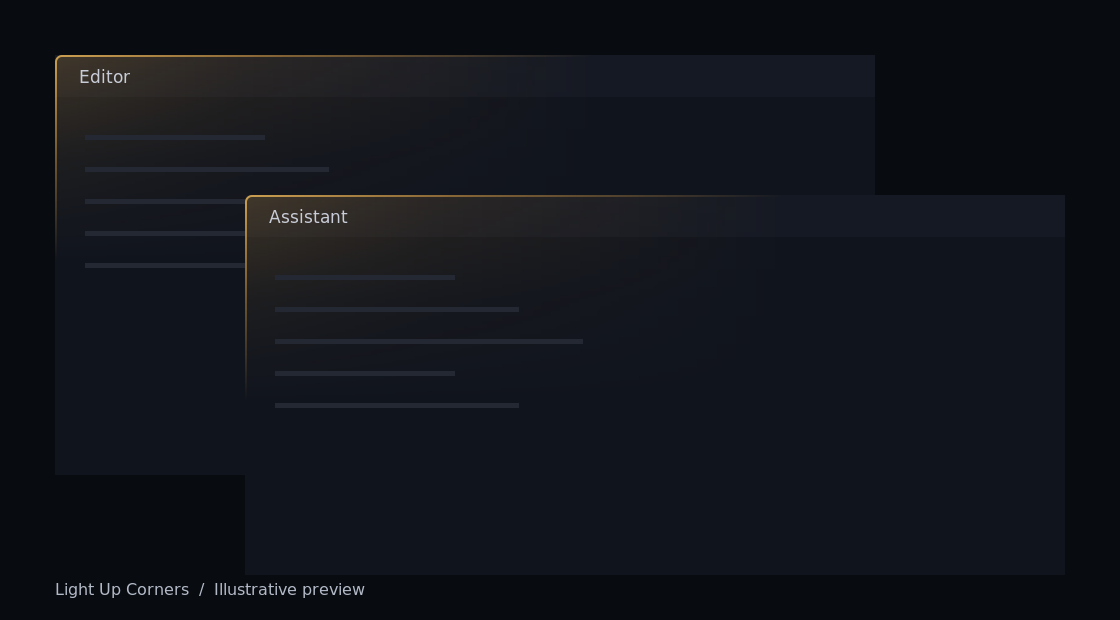
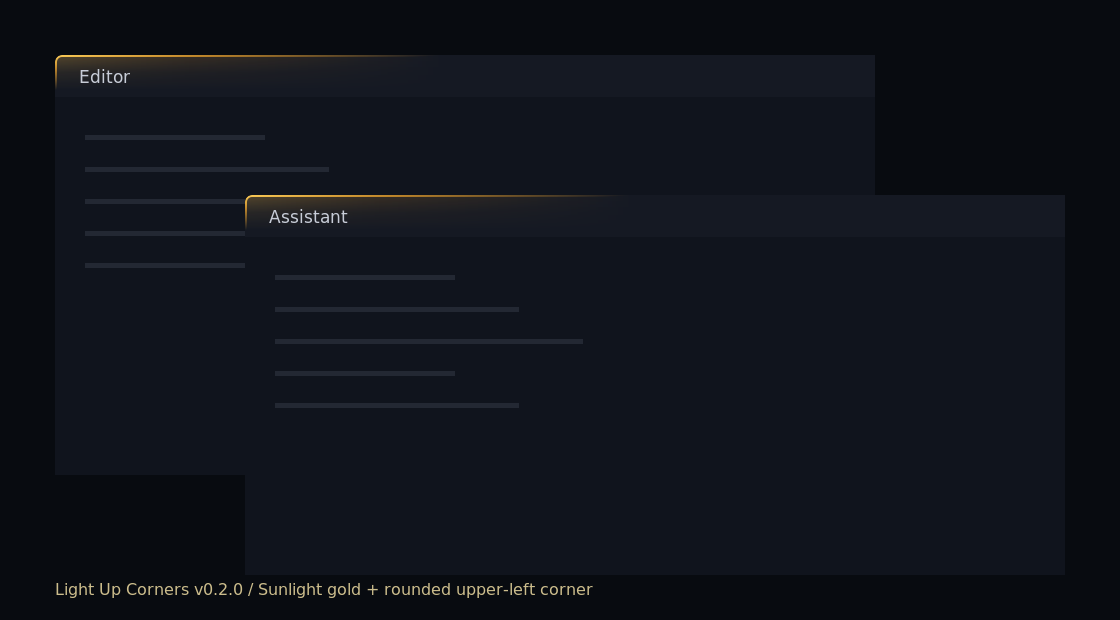
Release Light Up Corners v0.2.0
Add sunlight-gold accents and matching upper-left window rounding in one extension. Preserve monitor-relative 388 x 35 sizing, correct GNOME 42 offscreen padding and alpha blending, and clean the translucent rim. Update documentation and illustrative preview.

Validated on GNOME 42.9 / X11 with accepted desktop appearance, syntax checks, Cairo and GPU rendering, app filtering, fullscreen transitions, and cleanup checks.

diff --git a/extension.js b/extension.js
@@ -1,12 +1,65 @@
 // SPDX-License-Identifier: MIT
 'use strict';
 
-const {Clutter, Meta} = imports.gi;
+const {Clutter, Meta, GObject, Shell} = imports.gi;
 const Cairo = imports.cairo;
 const Main = imports.ui.main;
 
-// Calibrated to 540 px on the current 2560 px wide monitor.
-const HORIZONTAL_MONITOR_RATIO = 540 / 2560;
+// Calibrated to a 35 px height on a 2560 px wide monitor.
+const VERTICAL_LENGTH_RATIO = ((Math.sqrt(5) - 1) / 2) ** 5;
+const HORIZONTAL_MONITOR_RATIO = 35 / VERTICAL_LENGTH_RATIO / 2560;
+const CANVAS_SCALE = 2;
+const CORNER_RADIUS = 7;
+
+// Clip the window surface separately so the glow keeps its original antialiasing.
+const CORNER_CLIP_DECLARATIONS = 'uniform vec4 corner_geometry;';
+const CORNER_CLIP_CODE = `
+    vec2 corner_pos = cogl_tex_coord0_in.xy * corner_geometry.xy - corner_geometry.zw;
+    float radius = ${CORNER_RADIUS}.0;
+    if (corner_pos.x >= 0.0 && corner_pos.y >= 0.0 &&
+        corner_pos.x < radius && corner_pos.y < radius) {
+        float distance_to_center = length(corner_pos - vec2(radius));
+        // Keep the dark surface half a pixel inside the translucent gold rim.
+        float content_radius = radius - 0.5;
+        float coverage = 1.0 - smoothstep(content_radius - 0.5, content_radius + 0.5, distance_to_center);
+        cogl_color_out *= coverage;
+    }
+`;
+
+const WindowCornerClip = GObject.registerClass(
+class WindowCornerClip extends Shell.GLSLEffect {
+    vfunc_build_pipeline() {
+        this.add_glsl_snippet(Shell.SnippetHook.FRAGMENT,
+            CORNER_CLIP_DECLARATIONS, CORNER_CLIP_CODE, false);
+    }
+
+    updateGeometry(width, height, left, top) {
+        this._geometry = [width, height, left, top];
+        this.queue_repaint();
+    }
+
+    vfunc_paint_target(node, context) {
+        if (this._geometry) {
+            const actor = this.get_actor();
+            const volume = actor.get_paint_volume();
+            const origin = volume ? volume.get_origin() : {x: 0, y: 0};
+            const width = volume ? volume.get_width() : this._geometry[0];
+            const height = volume ? volume.get_height() : this._geometry[1];
+            // GNOME 42 enlarges the offscreen paint box by 3 logical pixels.
+            // Match clutter_actor_box_enlarge_for_effects(), including its origin.
+            const paddedWidth = Math.round(width) + 3;
+            const paddedHeight = Math.round(height) + 3;
+            const offsetX = Math.trunc(Math.ceil(origin.x + width + 0.75) - paddedWidth);
+            const offsetY = Math.trunc(Math.ceil(origin.y + height + 0.75) - paddedHeight);
+            this.set_uniform_float(this.get_uniform_location('corner_geometry'),
+                4, [paddedWidth, paddedHeight,
+                    this._geometry[2] - offsetX, this._geometry[3] - offsetY]);
+        }
+        // Both the captured window and the antialiased mask use premultiplied alpha.
+        this.get_pipeline().set_blend('RGBA = ADD(SRC_COLOR, DST_COLOR*(1-SRC_COLOR[A]))');
+        super.vfunc_paint_target(node, context);
+    }
+});
 
 // The small canvas is part of each window: stacking, animation and input stay native.
 function drawCorner(cr, width, height) {
@@ -14,7 +67,7 @@ function drawCorner(cr, width, height) {
     cr.paint();
     cr.setOperator(Cairo.Operator.OVER);
 
-    const radius = 7;
+    const radius = CORNER_RADIUS;
     cr.moveTo(radius, 0);
     cr.lineTo(width, 0);
     cr.lineTo(width, height);
@@ -26,9 +79,9 @@ function drawCorner(cr, width, height) {
 
     // Two gradients keep the glow strongest near the corner and away from text.
     const glow = new Cairo.LinearGradient(0, 0, width, 0);
-    glow.addColorStopRGBA(0, 0.72, 0.54, 0.25, 0.27);
-    glow.addColorStopRGBA(0.35, 0.66, 0.47, 0.20, 0.15);
-    glow.addColorStopRGBA(1, 0.66, 0.47, 0.20, 0);
+    glow.addColorStopRGBA(0, 1.0, 0.76, 0.28, 0.27);
+    glow.addColorStopRGBA(0.35, 1.0, 0.66, 0.16, 0.15);
+    glow.addColorStopRGBA(1, 1.0, 0.66, 0.16, 0);
     const fade = new Cairo.LinearGradient(0, 0, 0, height);
     fade.addColorStopRGBA(0, 0, 0, 0, 1);
     fade.addColorStopRGBA(0.5, 0, 0, 0, 0.3);
@@ -42,9 +95,9 @@ function drawCorner(cr, width, height) {
     const edge = new Cairo.LinearGradient(0, 0,
         width * height * height / denominator,
         height * width * width / denominator);
-    edge.addColorStopRGBA(0, 0.83, 0.65, 0.33, 0.95);
-    edge.addColorStopRGBA(0.4, 0.72, 0.53, 0.25, 0.65);
-    edge.addColorStopRGBA(1, 0.72, 0.53, 0.25, 0);
+    edge.addColorStopRGBA(0, 1.0, 0.82, 0.36, 0.98);
+    edge.addColorStopRGBA(0.4, 1.0, 0.69, 0.18, 0.68);
+    edge.addColorStopRGBA(1, 1.0, 0.69, 0.18, 0);
     cr.setSource(edge);
     cr.setLineWidth(2);
     cr.moveTo(1, height);
@@ -101,12 +154,29 @@ class DarkGoldCorners {
             name: 'dark-gold-window-corner',
             reactive: false,
             content: canvas,
+            content_gravity: Clutter.ContentGravity.RESIZE_FILL,
             opacity: window.has_focus() ? 255 : 170,
         });
+        overlay.set_content_scaling_filters(
+            Clutter.ScalingFilter.LINEAR, Clutter.ScalingFilter.LINEAR);
         canvas.connect('draw', (_canvas, cr, width, height) => {
-            return drawCorner(cr, width, height);
+            // Downsample a double-resolution canvas to soften curved edge pixels.
+            cr.save();
+            cr.scale(CANVAS_SCALE, CANVAS_SCALE);
+            drawCorner(cr, width / CANVAS_SCALE, height / CANVAS_SCALE);
+            cr.restore();
+            return true;
         });
-        const record = {window, overlay, canvas, signals: [], width: 0, height: 0};
+        const record = {window, overlay, canvas, signals: [], width: 0, height: 0,
+            surface: null, clip: null};
+        // GNOME 42 X11 places the client surface directly under WindowActor.
+        const surface = actor.get_first_child();
+        if (window.get_client_type() === Meta.WindowClientType.X11 && surface &&
+            GObject.type_name(surface.constructor.$gtype).startsWith('MetaSurfaceActor')) {
+            record.surface = surface;
+            record.clip = new WindowCornerClip();
+            surface.add_effect_with_name('light-up-corners-window-clip', record.clip);
+        }
         this._windows.set(actor, record);
         actor.add_child(overlay);
 
@@ -114,6 +184,10 @@ class DarkGoldCorners {
         for (const signal of ['position-changed', 'size-changed', 'notify::fullscreen'])
             record.signals.push([window, window.connect(signal, update)]);
         record.signals.push([actor, actor.connect('notify::allocation', update)]);
+        if (record.surface) {
+            record.signals.push([record.surface,
+                record.surface.connect('notify::allocation', update)]);
+        }
         record.signals.push([actor, actor.connect('destroy', () => {
             this._removeWindow(actor);
         })]);
@@ -124,20 +198,28 @@ class DarkGoldCorners {
         const {window, overlay, canvas} = record;
         if (window.is_fullscreen()) {
             overlay.hide();
+            if (record.clip)
+                record.clip.set_enabled(false);
             return;
         }
         const frame = window.get_frame_rect();
         const buffer = window.get_buffer_rect();
+        if (record.clip) {
+            const surface = record.surface;
+            record.clip.updateGeometry(surface.width, surface.height,
+                frame.x - buffer.x - surface.x, frame.y - buffer.y - surface.y);
+            record.clip.set_enabled(true);
+        }
         const monitor = global.display.get_monitor_geometry(window.get_monitor());
         const width = Math.max(1, Math.min(
             Math.round(monitor.width * HORIZONTAL_MONITOR_RATIO), frame.width));
-        const height = Math.max(1, Math.min(Math.round(width * ((Math.sqrt(5) - 1) / 2) ** 2), frame.height));
+        const height = Math.max(1, Math.min(Math.round(width * VERTICAL_LENGTH_RATIO), frame.height));
         overlay.set_position(frame.x - buffer.x, frame.y - buffer.y);
         overlay.set_size(width, height);
         if (record.width !== width || record.height !== height) {
             record.width = width;
             record.height = height;
-            canvas.set_size(width, height);
+            canvas.set_size(width * CANVAS_SCALE, height * CANVAS_SCALE);
             canvas.invalidate();
         }
         actor.set_child_above_sibling(overlay, null);
@@ -151,6 +233,8 @@ class DarkGoldCorners {
         this._windows.delete(actor);
         for (const [object, id] of record.signals)
             object.disconnect(id);
+        if (record.clip)
+            record.surface.remove_effect(record.clip);
         record.overlay.destroy();
     }
 

diff --git a/README.md b/README.md
@@ -1,6 +1,6 @@
 # Light Up Corners · 点亮角落
 
-A GNOME Shell extension that adds a soft dark-gold glow to the upper-left corner of VS Code and ChatGPT windows, making overlapping dark windows easier to distinguish.
+A GNOME Shell extension that adds a sunlight-gold glow and a matching rounded upper-left window corner to the upper-left corner of VS Code and ChatGPT windows, making overlapping dark windows easier to distinguish.
 
 [中文安装说明](README.zh-CN.md)
 
@@ -8,17 +8,18 @@ A GNOME Shell extension that adds a soft dark-gold glow to the upper-left corner
 
 *Illustration generated with the extension renderer; not a desktop screenshot.*
 
-## v0.1.0 compatibility
+## v0.2.0 compatibility
 
 Tested on GNOME Shell 42.9 with X11. The package declares support for GNOME 42 only. Other GNOME versions, Wayland, fractional scaling, and different application distributions have not been verified. Ubuntu alone does not establish compatibility: check `gnome-shell --version` and `echo "$XDG_SESSION_TYPE"` first.
 
 ## Appearance
 
-- Continuous dark-gold top edge, rounded corner, and left edge.
-- Horizontal length: 21.09375% of the window's monitor width (540 px on a 2560 px wide monitor).
-- Vertical length: horizontal length × ((√5 − 1) / 2)², approximately 38.1966% (206 px at the default size).
-- Active windows are brighter; fullscreen windows have no decoration.
-- The glow follows window stacking and does not accept pointer input.
+- Continuous sunlight-gold top edge, rounded corner, and left edge.
+- The actual window is rounded only at the upper-left corner (7 px); a 0.5 px content inset keeps the translucent gold rim clean. The other three corners stay unchanged.
+- Horizontal length: 15.162342% of the window's monitor width (388 px on a 2560 px wide monitor).
+- Vertical length: horizontal length × ((√5 − 1) / 2)⁵, approximately 9.016994% (35 px at the default size).
+- Active windows are brighter; fullscreen windows have neither glow nor corner clipping.
+- The glow follows window stacking and does not accept pointer input. Corner clipping is visual; it does not alter the application's rectangular input region.
 - Only X11 window classes `code` and `Chatgpt` are matched. Browser tabs and other app variants are not included.
 - No network access, telemetry, clipboard access, or application-content inspection.
 
@@ -61,11 +62,11 @@ mkdir -p dist
 gnome-extensions pack . --extra-source=LICENSE --out-dir=dist
 ```
 
-The ZIP contains readable JavaScript, metadata, and the license. It needs no Node.js or third-party package at runtime.
+The ZIP contains readable JavaScript, metadata, and the license. It needs no Node.js or separate round-corner extension at runtime; it uses the graphics APIs built into GNOME Shell.
 
 ## Validation and development
 
-The appearance was accepted on the original GNOME 42.9 / X11 setup. Syntax, Cairo rendering, simulated monitor-size updates, window-size clipping, and signal cleanup were checked. Cross-machine installation and live resolution changes remain to be verified by testers. This release preserves the accepted drawing and window-management code.
+The appearance was accepted on the original GNOME 42.9 / X11 setup. Syntax, Cairo rendering, simulated monitor-size updates, window-size clipping, and signal cleanup were checked. Cross-machine installation and live resolution changes remain to be verified by testers. The v0.2.0 appearance, including the cleaned rounded edge, was accepted on the original machine. Additional checks cover shader rendering with GNOME offscreen padding, premultiplied alpha, application filtering, fullscreen transitions, and effect cleanup. Desktop interaction and performance on other machines remain unverified.
 
 Change `HORIZONTAL_MONITOR_RATIO` in `extension.js` to adjust horizontal length. Vertical length follows automatically. Reload Shell after code changes.
 

diff --git a/README.zh-CN.md b/README.zh-CN.md
@@ -1,6 +1,6 @@
-# Light Up Corners · 点亮角落 — v0.1.0
+# Light Up Corners · 点亮角落 — v0.2.0
 
-给 VS Code 和 ChatGPT 桌面窗口的左上角加一片暗金色渐变，让叠在一起的深色窗口更容易区分。这是 GNOME Shell 桌面扩展。
+给 VS Code 和 ChatGPT 桌面窗口的左上角添加阳光金渐变，并将实际窗口左上角裁成匹配的圆角，让叠在一起的深色窗口更容易区分。这是一个 GNOME Shell 桌面扩展，光晕与圆角一起安装、一起关闭，无需另装圆角工具。
 
 ## 安装前确认
 
@@ -38,10 +38,12 @@ gnome-extensions disable dark-gold-corners@qcraft.local
 
 ## 默认效果
 
-- 横向长度 = 窗口所在显示器宽度 × 21.09375%。
-- 纵向长度 = 横向长度 × 0.381966（黄金分割比例 0.618… 的平方）。
-- 2560 宽屏幕对应约 540 × 206 像素；调整横向时纵向自动跟随。
-- 圆角连续描边；当前窗口稍亮、后台窗口稍暗；全屏时隐藏。
+- 横向长度 = 窗口所在显示器宽度 × 15.162342%。
+- 纵向长度 = 横向长度 × 0.09016994（黄金分割比例 0.618… 的五次方）。
+- 2560 宽屏幕对应约 388 × 35 像素；调整横向时纵向自动跟随。
+- 只裁剪实际窗口左上角，半径 7 像素；深色内容内收 0.5 像素，减少金色边缘混黑。
+- 圆角连续描边；当前窗口稍亮、后台窗口稍暗；全屏时隐藏光晕并暂停裁剪。
+- 圆角属于视觉效果，应用原有的矩形鼠标输入区域不变。
 - 不接收鼠标点击，不联网、不收集遥测、不读取剪贴板或应用内容。
 
 ## 关闭与卸载
@@ -60,6 +62,6 @@ gnome-extensions info light-up-corners@shuyu
 gdbus call --session --dest org.gnome.Shell.Extensions --object-path /org/gnome/Shell/Extensions --method org.gnome.Shell.Extensions.GetExtensionErrors light-up-corners@shuyu
 ```
 
-目前已验证原开发机的视觉效果、语法、Cairo 绘制，以及模拟分辨率变化和清理逻辑。其他机器的安装、实际切换分辨率仍待试用确认。
+目前已确认原开发机的最终视觉效果，并验证语法、Cairo 绘制、着色器裁剪、GNOME 特效画布边距、半透明混合、应用筛选、全屏切换及清理逻辑。其他机器的安装、交互、性能与实际切换分辨率仍待试用确认。
 
 此项目使用 AI 辅助开发，源码随包提供，采用 MIT 许可证；发布维护者应阅读并理解实现。

diff --git a/CHANGELOG.md b/CHANGELOG.md
@@ -1,5 +1,15 @@
 # Changelog
 
+## 0.2.0
+
+- Use a warmer sunlight-gold palette and a compact 388 × 35 px baseline on a 2560 px monitor.
+- Preserve monitor-relative sizing with a golden-ratio fifth-power aspect ratio.
+- Round the actual upper-left window corner to match the 7 px glow radius.
+- Correct GNOME 42 offscreen padding and premultiplied-alpha blending.
+- Inset the dark corner content by 0.5 px to clean the translucent gold rim.
+- Keep both effects in one extension; disable clipping in fullscreen and remove it on teardown.
+- Retain the public UUID for upgrades from v0.1.0.
+
 ## 0.1.0
 
 Initial team preview release based on the accepted local version: dark-gold corner accents for VS Code and ChatGPT, continuous rounded edges, monitor-relative sizing, proportional vertical length, focus dimming, and fullscreen hiding. Supported metadata target: GNOME 42.
